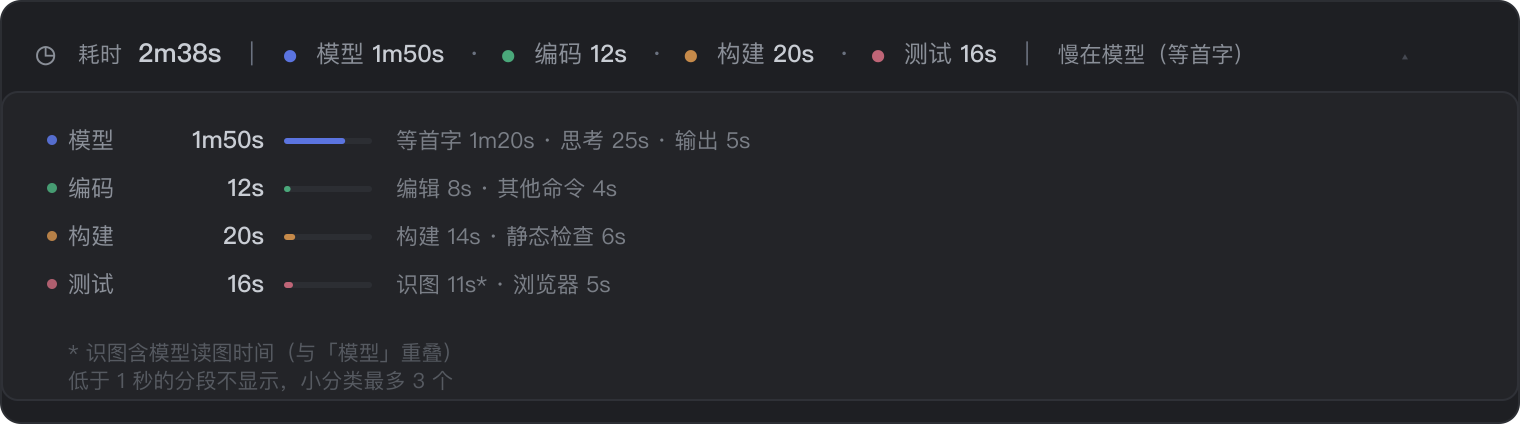
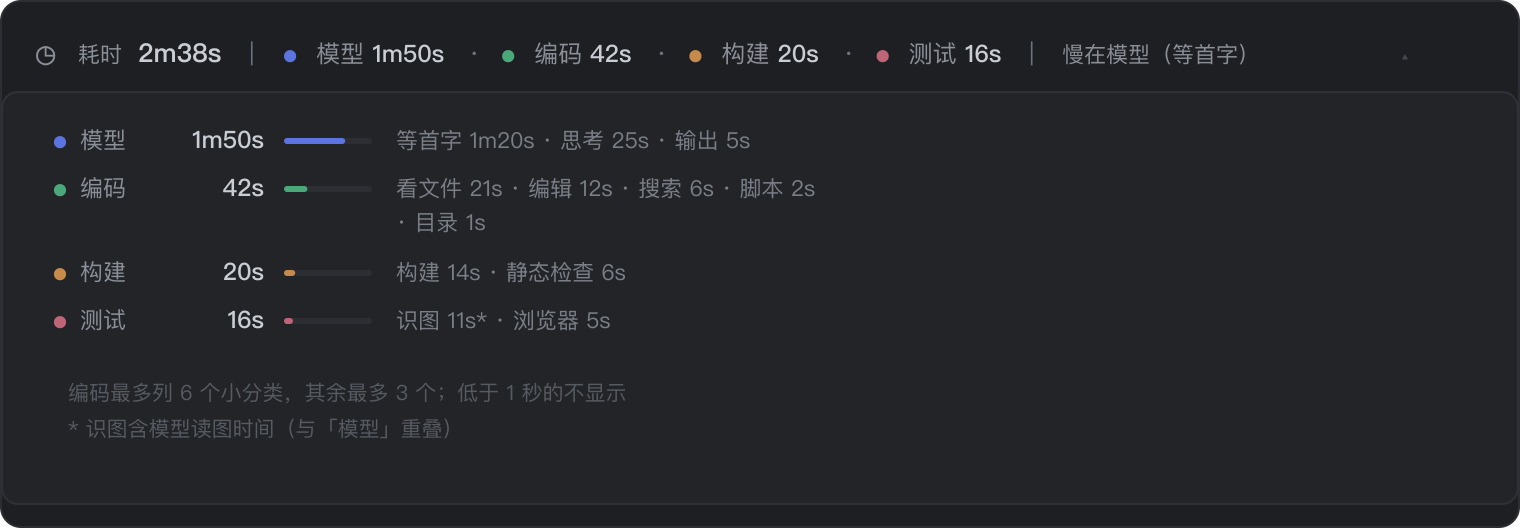
turn-timing 0.1.9：编码细分（编辑/git/搜索/看文件/脚本/目录）

diff --git a/client.js b/client.js
@@ -25,11 +25,17 @@ window.__ModuleLoader__.load({
       ["清理", "还原", /(git (checkout|restore|stash|reset)\b|docker (stop|rm|kill)\b|(npm|pnpm|yarn) run clean\b|make clean\b)/i],
       ["清理", "临时文件", /\brm\s+(-[a-zA-Z]+\s+)*[^\s]*(\/tmp\/|\.log\b|\.tmp\b)/i],
       ["清理", "进程", /\b(kill|pkill|killall)\b/i],
-      ["编码", "编辑", /\b(sed -i|tee |cat >|cat >>|patch |git apply)\b/i],
+      ["编码", "编辑", /(\bsed -i\b|\bcat >>?\s|\btee\s|\bpatch\s|\bgit apply\b)/i],
+      ["编码", "git", /\bgit\s+(status|diff|log|show|add|commit|branch|remote|fetch|stash list)\b/i],
+      ["编码", "搜索", /\b(rg|ag|ack|grep|find)\b/i],
+      ["编码", "看文件", /\b(cat|head|tail|less|more|wc|nl|file|stat|tree)\b/i],
+      ["编码", "脚本", /\b(node|deno|tsx|ts-node|python3?|bash|sh|zsh|ruby|perl|npx)\b/i],
+      ["编码", "目录", /\b(cd|pwd|ls|mkdir|rmdir|du|df|dirname|basename)\b/i],
     ];
 
     const ROW_ORDER = ["模型", "编码", "构建", "测试", "清理"];
     const MAX_SUBS = 3;
+    const SUB_LIMIT = { 编码: 6 };
     const MIN_ROW_MS = 1000;
     const EMPTY_REPORT = new Map();
 
@@ -81,7 +87,7 @@ window.__ModuleLoader__.load({
         if (pattern.test(text)) return [category, sub];
       }
       if (name === "edit" || name === "write" || name === "notebook_edit") return ["编码", "编辑"];
-      if (name === "read") return ["编码", "读代码"];
+      if (name === "read") return ["编码", "看文件"];
       if (name === "grep" || name === "glob") return ["编码", "搜索"];
       return ["编码", "其他命令"];
     }
@@ -271,7 +277,7 @@ window.__ModuleLoader__.load({
         const subs = [...bucket.subs.entries()]
           .filter(([, ms]) => ms >= MIN_ROW_MS)
           .sort((a, b) => b[1] - a[1])
-          .slice(0, MAX_SUBS);
+          .slice(0, SUB_LIMIT[name] || MAX_SUBS);
         rows.push({ name, ms: bucket.ms, subs });
       }
       return rows;
@@ -557,11 +563,11 @@ window.__ModuleLoader__.load({
       ".dsh-tt-sep{padding:0 6px;opacity:.3}",
       ".dsh-tt-verdict{font-size:11px;opacity:.85}",
       ".dsh-tt-caret{opacity:.4;font-size:9px;line-height:1}",
-      ".dsh-tt-body{display:grid;grid-template-columns:3.1em 4.4em 44px minmax(0,1fr);align-items:center;column-gap:10px;row-gap:6px;padding:10px 12px;border-radius:8px;border:1px solid var(--dsw-alias-border-l1,rgba(127,127,127,.14));background:var(--dsw-alias-bg-layer-1,rgba(127,127,127,.05))}",
+      ".dsh-tt-body{display:grid;grid-template-columns:3.1em 4.4em 44px minmax(0,1fr);align-items:start;column-gap:10px;row-gap:6px;padding:10px 12px;border-radius:8px;border:1px solid var(--dsw-alias-border-l1,rgba(127,127,127,.14));background:var(--dsw-alias-bg-layer-1,rgba(127,127,127,.05))}",
       ".dsh-tt-name{display:flex;align-items:center;font-size:11.5px;white-space:nowrap}",
       ".dsh-tt-ms{text-align:right;font-weight:500;color:var(--dsw-alias-label-secondary,#6b7280)}",
       ".dsh-tt-body .dsh-tt-bar{width:44px;height:3px;opacity:1;background:var(--dsw-alias-border-l1,rgba(127,127,127,.1))}",
-      ".dsh-tt-sub{min-width:0;overflow:hidden;text-overflow:ellipsis;white-space:nowrap;font-size:11px;opacity:.85}",
+      ".dsh-tt-sub{min-width:0;white-space:normal;word-break:keep-all;font-size:11px;line-height:17px;opacity:.85}",
       ".dsh-tt-note{grid-column:1/-1;padding-top:2px;font-size:10.5px;opacity:.45}",
       ".dsh-tt-muted{opacity:.5}",
       ".dsh-tt-hint{opacity:.6;font-size:11px}",

diff --git a/README.md b/README.md
@@ -85,13 +85,14 @@
 
 ```
   模型    1m50s   ███████░░░░   等首字 1m20s · 思考 25s · 输出 5s
-  编码      12s   █░░░░░░░░░░   编辑 8s · 其他命令 4s
+  编码      42s   █░░░░░░░░░░   看文件 21s · 编辑 12s · 搜索 6s · 脚本 2s
+                                 · 目录 1s
   构建      20s   █░░░░░░░░░░   构建 14s · 静态检查 6s
   测试      16s   █░░░░░░░░░░   识图 11s* · 浏览器 5s
 ```
 
 - 五类固定顺序：**模型 → 编码 → 构建 → 测试 → 清理**，没有数据的那一类整行不出现。
-- 低于 1 秒的分段不显示，小分类最多 3 个（按耗时倒序）。
+- 低于 1 秒的分段不显示。「编码」最多列 6 个小分类，其余分类最多 3 个（按耗时倒序），放不下自动换行。
 - 带 `*` 的「识图」是模型读图调用，和「模型」有重叠，见下面的口径说明。
 - 只统计模型与工具；**等你回答、等你审批不计入**，混进来会让「慢」失真。
 
@@ -132,9 +133,12 @@
 | 6 | 清理 / 还原 | `git checkout --`、`git restore`、`git stash`、`docker stop`、`make clean` |
 | 7 | 清理 / 临时文件 | `rm … /tmp/…`、`rm … *.log` |
 | 8 | 清理 / 进程 | `kill`、`pkill`、`killall` |
-| 9 | 编码 / 编辑 | `sed -i`、`cat > file`、`git apply`，以及 `edit` / `write` 工具 |
-| 10 | 编码 / 读代码 | `read` 工具 |
-| 11 | 编码 / 搜索 | `grep` / `glob` 工具 |
+| 9 | 编码 / 编辑 | `sed -i`、`cat > file`、`tee`、`git apply`，以及 `edit` / `write` 工具 |
+| 10 | 编码 / git | `git status / diff / log / add / commit / branch / remote` |
+| 11 | 编码 / 搜索 | `rg`、`grep`、`find`，以及 `grep` / `glob` 工具 |
+| 12 | 编码 / 看文件 | `cat`、`head`、`tail`、`wc`、`tree`，以及 `read` 工具 |
+| 13 | 编码 / 脚本 | `node`、`python3`、`bash`、`tsx`、`npx` |
+| 14 | 编码 / 目录 | `cd`、`pwd`、`ls`、`mkdir`、`du` |
 | — | 编码 / 其他命令 | 其余一切 |
 
 改口径只需改 `client.js` 顶部的 `RULES` 数组（改完重启 App）：

diff --git a/README.en.md b/README.en.md
@@ -68,13 +68,14 @@ Click to expand sub-categories (each with a share bar):
 
 ```
   模型    1m50s   ███████░░░░   first token 1m20s · thinking 25s · output 5s
-  编码      12s   █░░░░░░░░░░   edit 8s · other 4s
+  编码      42s   █░░░░░░░░░░   view 21s · edit 12s · search 6s · script 2s
+                                · dir 1s
   构建      20s   █░░░░░░░░░░   build 14s · lint 6s
   测试      16s   █░░░░░░░░░░   vision 11s* · browser 5s
 ```
 
 - Fixed order: **model → coding → build → test → cleanup**; a category with no data is omitted.
-- Segments under 1s are hidden; at most 3 sub-categories, longest first.
+- Segments under 1s are hidden. Coding lists up to 6 sub-categories, other rows up to 3, longest first; they wrap when needed.
 - `*` marks vision, which overlaps the model row — see below.
 - Only model and tool time is counted. Waiting for the user or for approval is excluded.
 
@@ -115,9 +116,12 @@ First match wins. Edit the `RULES` array at the top of `client.js` to change it.
 | 6 | cleanup / restore | `git checkout --`, `git restore`, `make clean` |
 | 7 | cleanup / temp files | `rm … /tmp/…`, `rm … *.log` |
 | 8 | cleanup / processes | `kill`, `pkill`, `killall` |
-| 9 | coding / edit | `sed -i`, `cat > file`, `edit` / `write` tools |
-| 10 | coding / read | `read` tool |
-| 11 | coding / search | `grep` / `glob` tools |
+| 9 | coding / edit | `sed -i`, `cat > file`, `tee`, `git apply`, `edit` / `write` tools |
+| 10 | coding / git | `git status / diff / log / add / commit / branch / remote` |
+| 11 | coding / search | `rg`, `grep`, `find`, `grep` / `glob` tools |
+| 12 | coding / view | `cat`, `head`, `tail`, `wc`, `tree`, `read` tool |
+| 13 | coding / script | `node`, `python3`, `bash`, `tsx`, `npx` |
+| 14 | coding / dir | `cd`, `pwd`, `ls`, `mkdir`, `du` |
 
 **Deliberately excluded**: waiting for the user, waiting for approval. Neither is
 model time nor tool time; mixing them in would distort the "what is slow" answer.

diff --git a/CHANGELOG.md b/CHANGELOG.md
@@ -1,5 +1,15 @@
 # Changelog
 
+## 0.1.9
+
+「编码」拆细，详情里能看清它到底在干什么。
+
+- 编码小分类从 4 个扩到 8 个：编辑 / git / 搜索 / 看文件 / 脚本 / 目录 / 其他命令。
+  `read` 工具并入「看文件」，和 `cat` / `head` 同一类。
+- 编码最多列 6 个小分类（其余分类仍为 3），小分类放不下时自动换行，不再截断成省略号。
+- 修好「编辑」的判定：`cat > file`、`tee`、`git apply` 之前因为正则尾部多了个 `\b` 一直没匹配上。
+
+
 ## 0.1.8
 
 - 时钟图标 18px → 16px。
